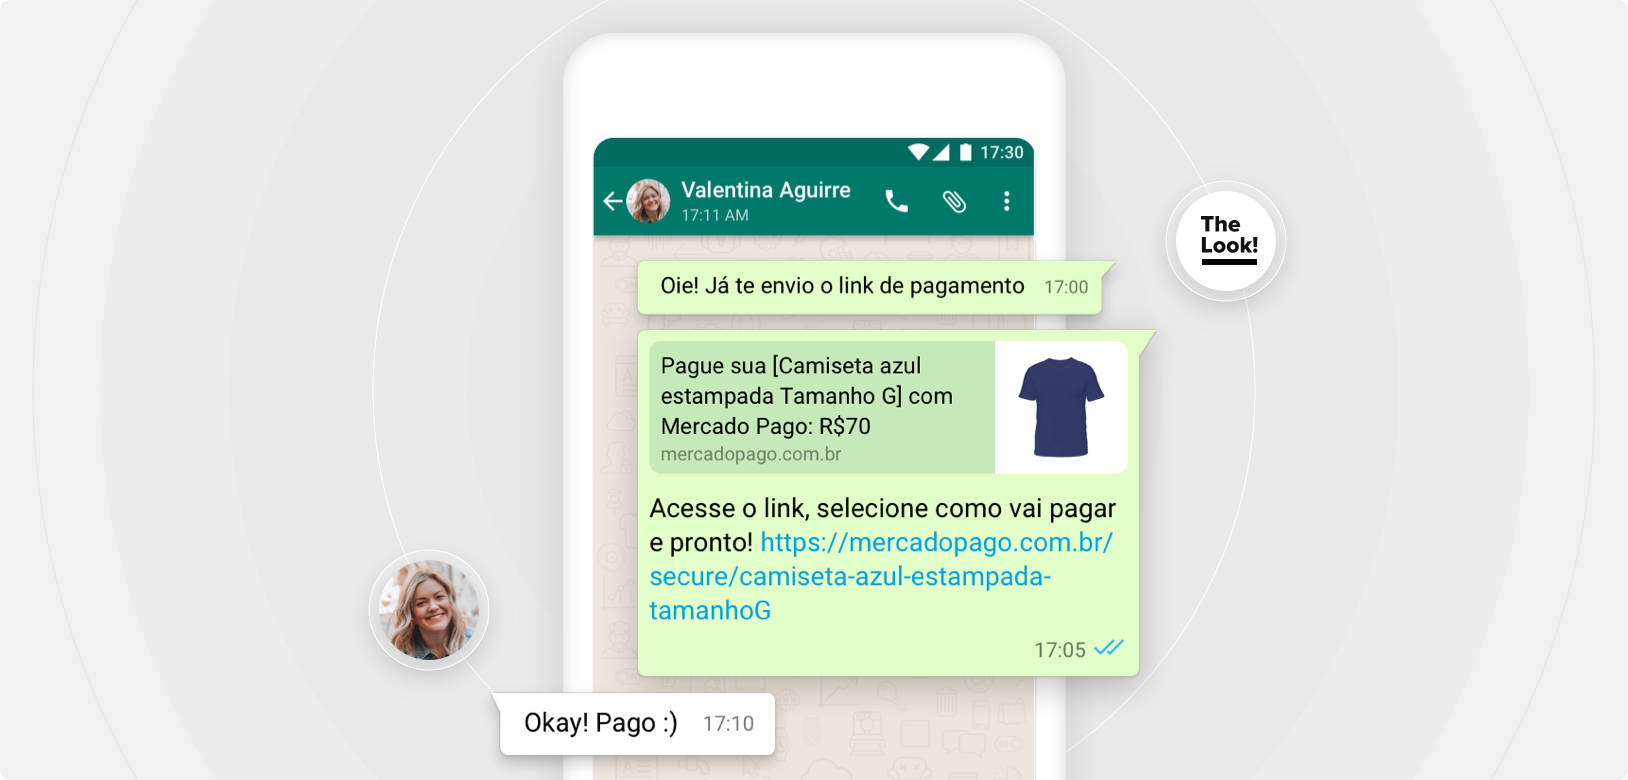
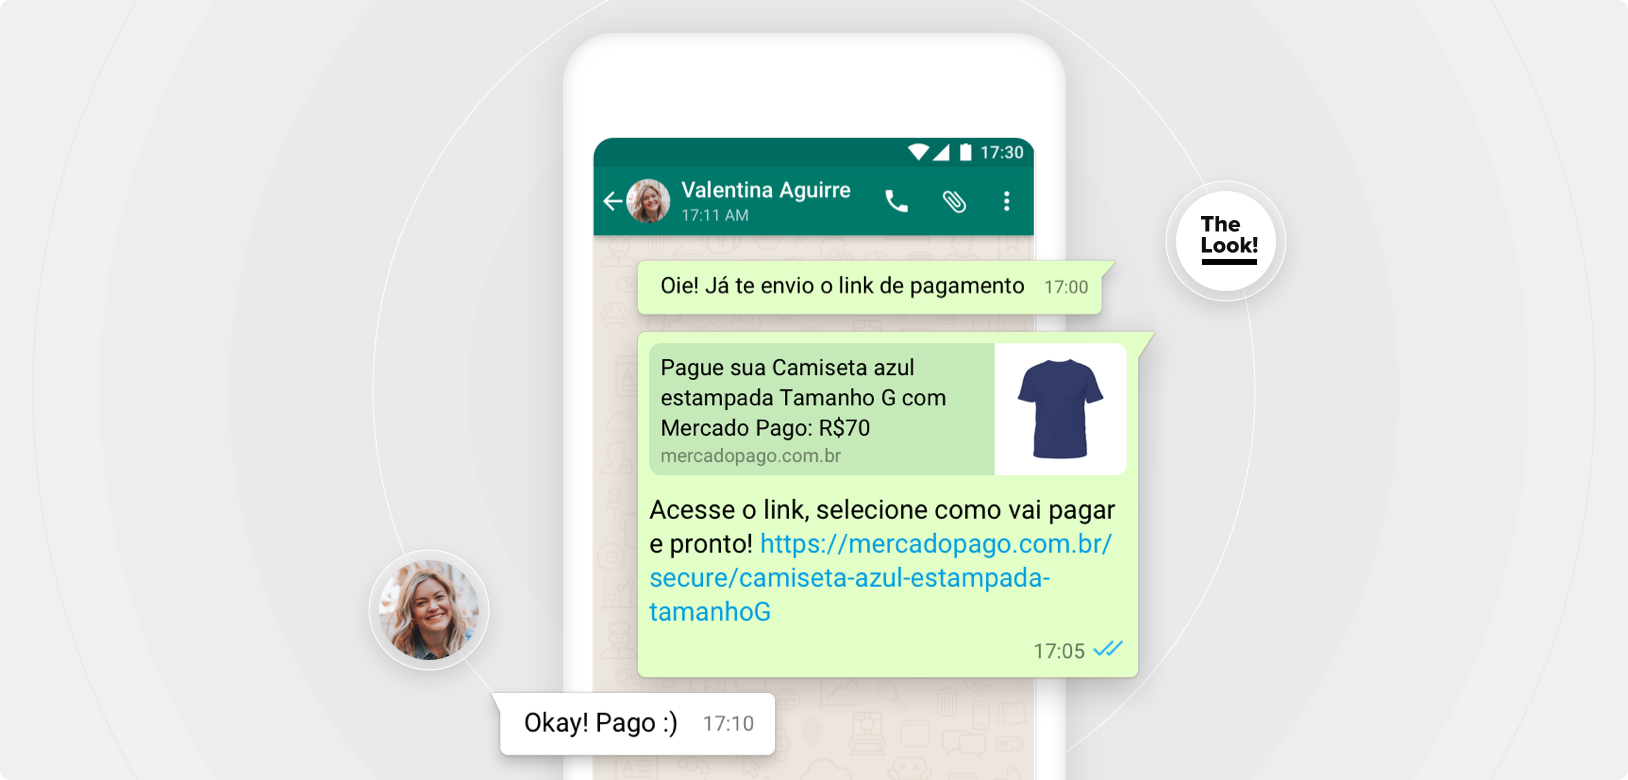
changes of image and text correction

diff --git a/guides/payments/button/create-button.pt.md b/guides/payments/button/create-button.pt.md
@@ -24,7 +24,7 @@ Antes de criar sua nova solução de pagamento, você pode definir outras caract
 ----------------- | -----------------
 Meios de pagamento a oferecer | Por aqui, você pode habilitar os meios de pagamento com os quais seus clientes poderão pagar.
 Código de referência | É uma identificação única para reconhecer seu produto ou serviço. Será útil na hora de buscá-lo [na lista](https://www.mercadopago[FAKER][URL][DOMAIN]/tools/list).
-Duração | Configure por quanto tempo você quer que sua ferramenta de pagamento funcione. Defina uma data de início e uma de término.
+Duração | Configure por quanto tempo você quer que seu botão ou link funcione. Defina uma data de início e uma de término.
 Redirecionamento | Se precisar, você poderá enviar seus compradores ao site que quiser após a pagamento.
 
 ---

diff --git a/guides/payments/button/create-button.es.md b/guides/payments/button/create-button.es.md
@@ -24,7 +24,7 @@ Antes de crear tu nueva solución de cobro, puedes fijarle otras característica
 ----------------- | -----------------
 Medios de pago a ofrecer | Desde aquí podrás habilitar los medios de pago con los que tus clientes podrán pagar.
 Código de referencia | Es una identificación única para reconocer tu producto o servicio. Te servirá a la hora de buscarlo [en el listado](https://www.mercadopago[FAKER][URL][DOMAIN]/tools/list).
-Tiempo | Configura cuánto tiempo quieres que tu herramienta de cobro funcione. Define una fecha de comienzo y una de vencimiento.
+Tiempo | Configura cuánto tiempo quieres que tu botón o link funcione. Define una fecha de comienzo y una de vencimiento.
 Redireccionamiento | Si precisas, podrás enviar a tus compradores hacia el sitio web que quieras luego del pago.
 
 ---

diff --git a/guides/payments/button/create-button.en.md b/guides/payments/button/create-button.en.md
@@ -24,7 +24,7 @@ Before creating your new payment solution, you can define other features using t
 ----------------- | -----------------
 Payment methods to be offered | Here, you can enable the payment methods your customers can pay with.
 Reference code | It is a unique identification to recognize your product or service. It will be useful when looking for it [in the list](https://www.mercadopago[FAKER][URL][DOMAIN]/tools/list).
-Duration | Configure for how long you want your payment tool to work. Set a start date and an end date.
+Duration | Configure for how long you want your link or button to work. Set a start date and an end date.
 Redirection | If needed, you can send your buyers to the website you want after payment.
 
 ---
